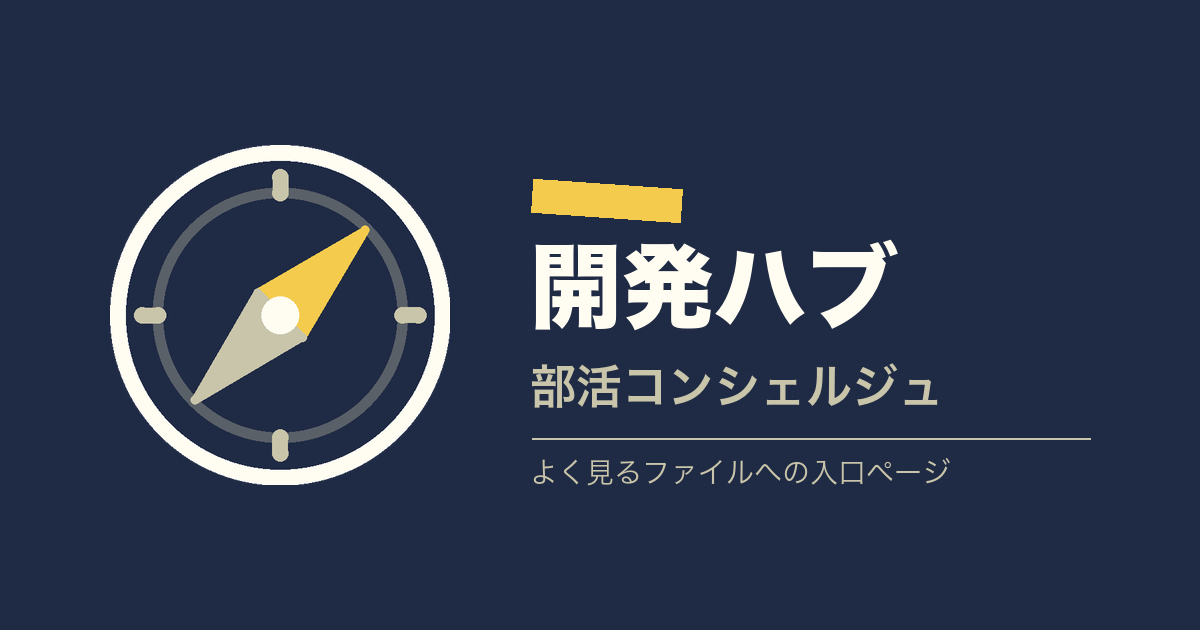
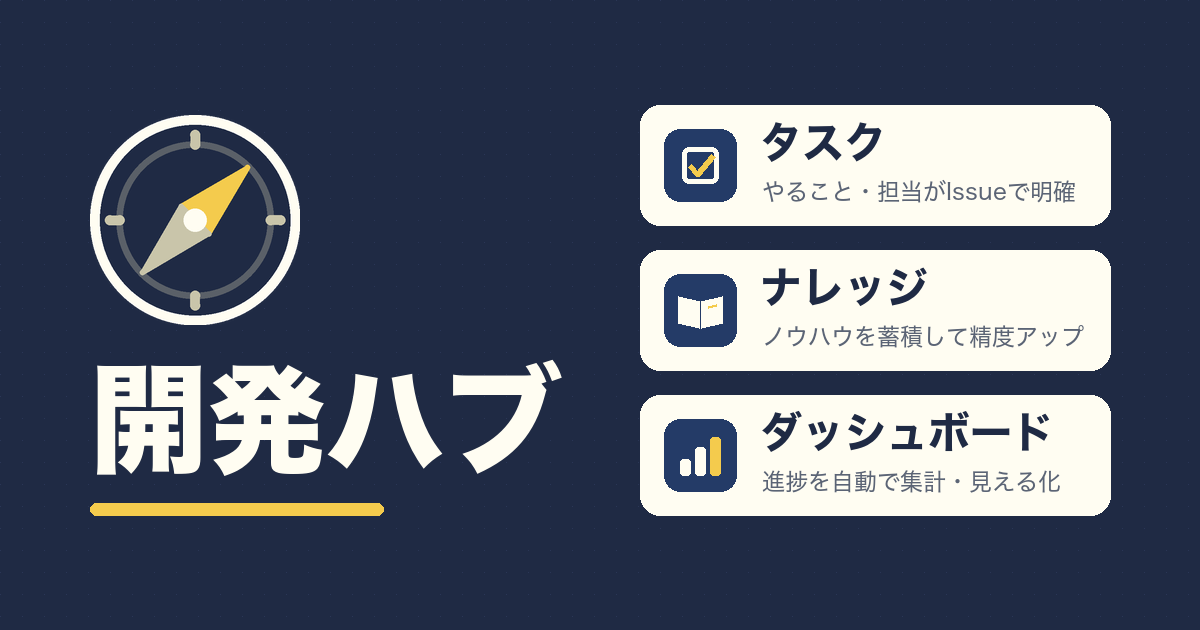
feat(hub): OGP画像を行き先チップ型に刷新し説明文を簡潔化
- og-image.png を v4(コンパス+開発ハブ+タスク/ナレッジ/ダッシュボードのチップ)に差し替え
- description/og:description/twitter:description を『開発で毎日開くリンクを、1ページに集約。』に統一(画像と役割分担し重複解消)

Claude-Session: https://claude.ai/code/session_01QTq1GpmCPU4mE1mErntRx5

diff --git a/docs/hub.html b/docs/hub.html
@@ -9,17 +9,17 @@
 <link rel="icon" type="image/png" sizes="16x16" href="hub-assets/favicon-16.png">
 <link rel="apple-touch-icon" sizes="180x180" href="hub-assets/apple-touch-icon.png">
 <meta name="theme-color" content="#1f2a44">
-<meta name="description" content="部活コンシェルジュの開発で、よく見るファイルへの入口ページ（タスク・ナレッジ・進捗ダッシュボード）。">
+<meta name="description" content="開発で毎日開くリンクを、1ページに集約。">
 <meta property="og:type" content="website">
 <meta property="og:title" content="開発ハブ｜部活コンシェルジュ">
-<meta property="og:description" content="部活コンシェルジュの開発で、よく見るファイルへの入口ページ（タスク・ナレッジ・進捗ダッシュボード）。">
+<meta property="og:description" content="開発で毎日開くリンクを、1ページに集約。">
 <meta property="og:url" content="https://akapuu14-bit.github.io/DAHanae/hub.html">
 <meta property="og:image" content="https://akapuu14-bit.github.io/DAHanae/hub-assets/og-image.png">
 <meta property="og:image:width" content="1200">
 <meta property="og:image:height" content="630">
 <meta name="twitter:card" content="summary_large_image">
 <meta name="twitter:title" content="開発ハブ｜部活コンシェルジュ">
-<meta name="twitter:description" content="部活コンシェルジュの開発で、よく見るファイルへの入口ページ（タスク・ナレッジ・進捗ダッシュボード）。">
+<meta name="twitter:description" content="開発で毎日開くリンクを、1ページに集約。">
 <meta name="twitter:image" content="https://akapuu14-bit.github.io/DAHanae/hub-assets/og-image.png">
 <style>
   @import url('https://fonts.googleapis.com/css2?family=Noto+Sans+JP:wght@400;500;700&family=Zen+Kaku+Gothic+New:wght@500;700;900&display=swap');
